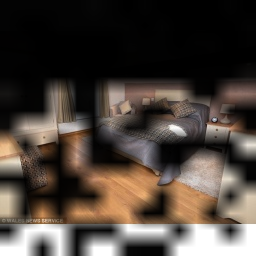
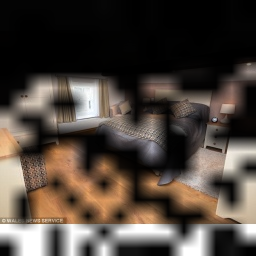
third attempt

diff --git a/src/training/train.py b/src/training/train.py
@@ -968,13 +968,14 @@ def process_attention_scores(scores, tokens, og_img, og_idx, args, get_mask = Fa
         joint_attn[i] = torch.matmul(attn[i], joint_attn[i - 1])
     print("joint attn", joint_attn.shape)
 
-    grid_length = int(np.sqrt(attn.size(-1)))  # 15
+    grid_length = int(round(np.sqrt(attn.size(-1))))  # 16
     print("grid length", grid_length)
     for layer in [-1]:
         v = joint_attn[layer]  # (255, 255)        
+        v = F.pad(v, (0, 1, 0, 1), "constant", 0)  # (256, 256)
         for i, token in enumerate(tokens):  # only goes up till 75
             if token != "<end_of_text>":
-                mask = v[i, 1:grid_length**2+1].reshape(grid_length, grid_length).detach().cpu().numpy()  # (15, 15)
+                mask = v[i, :].reshape(grid_length, grid_length).detach().cpu().numpy()  # (16, 16)
                 print("mask", mask.shape)
                 mask = cv2.resize(mask / mask.max(), og_img.size)
                 if get_mask:
